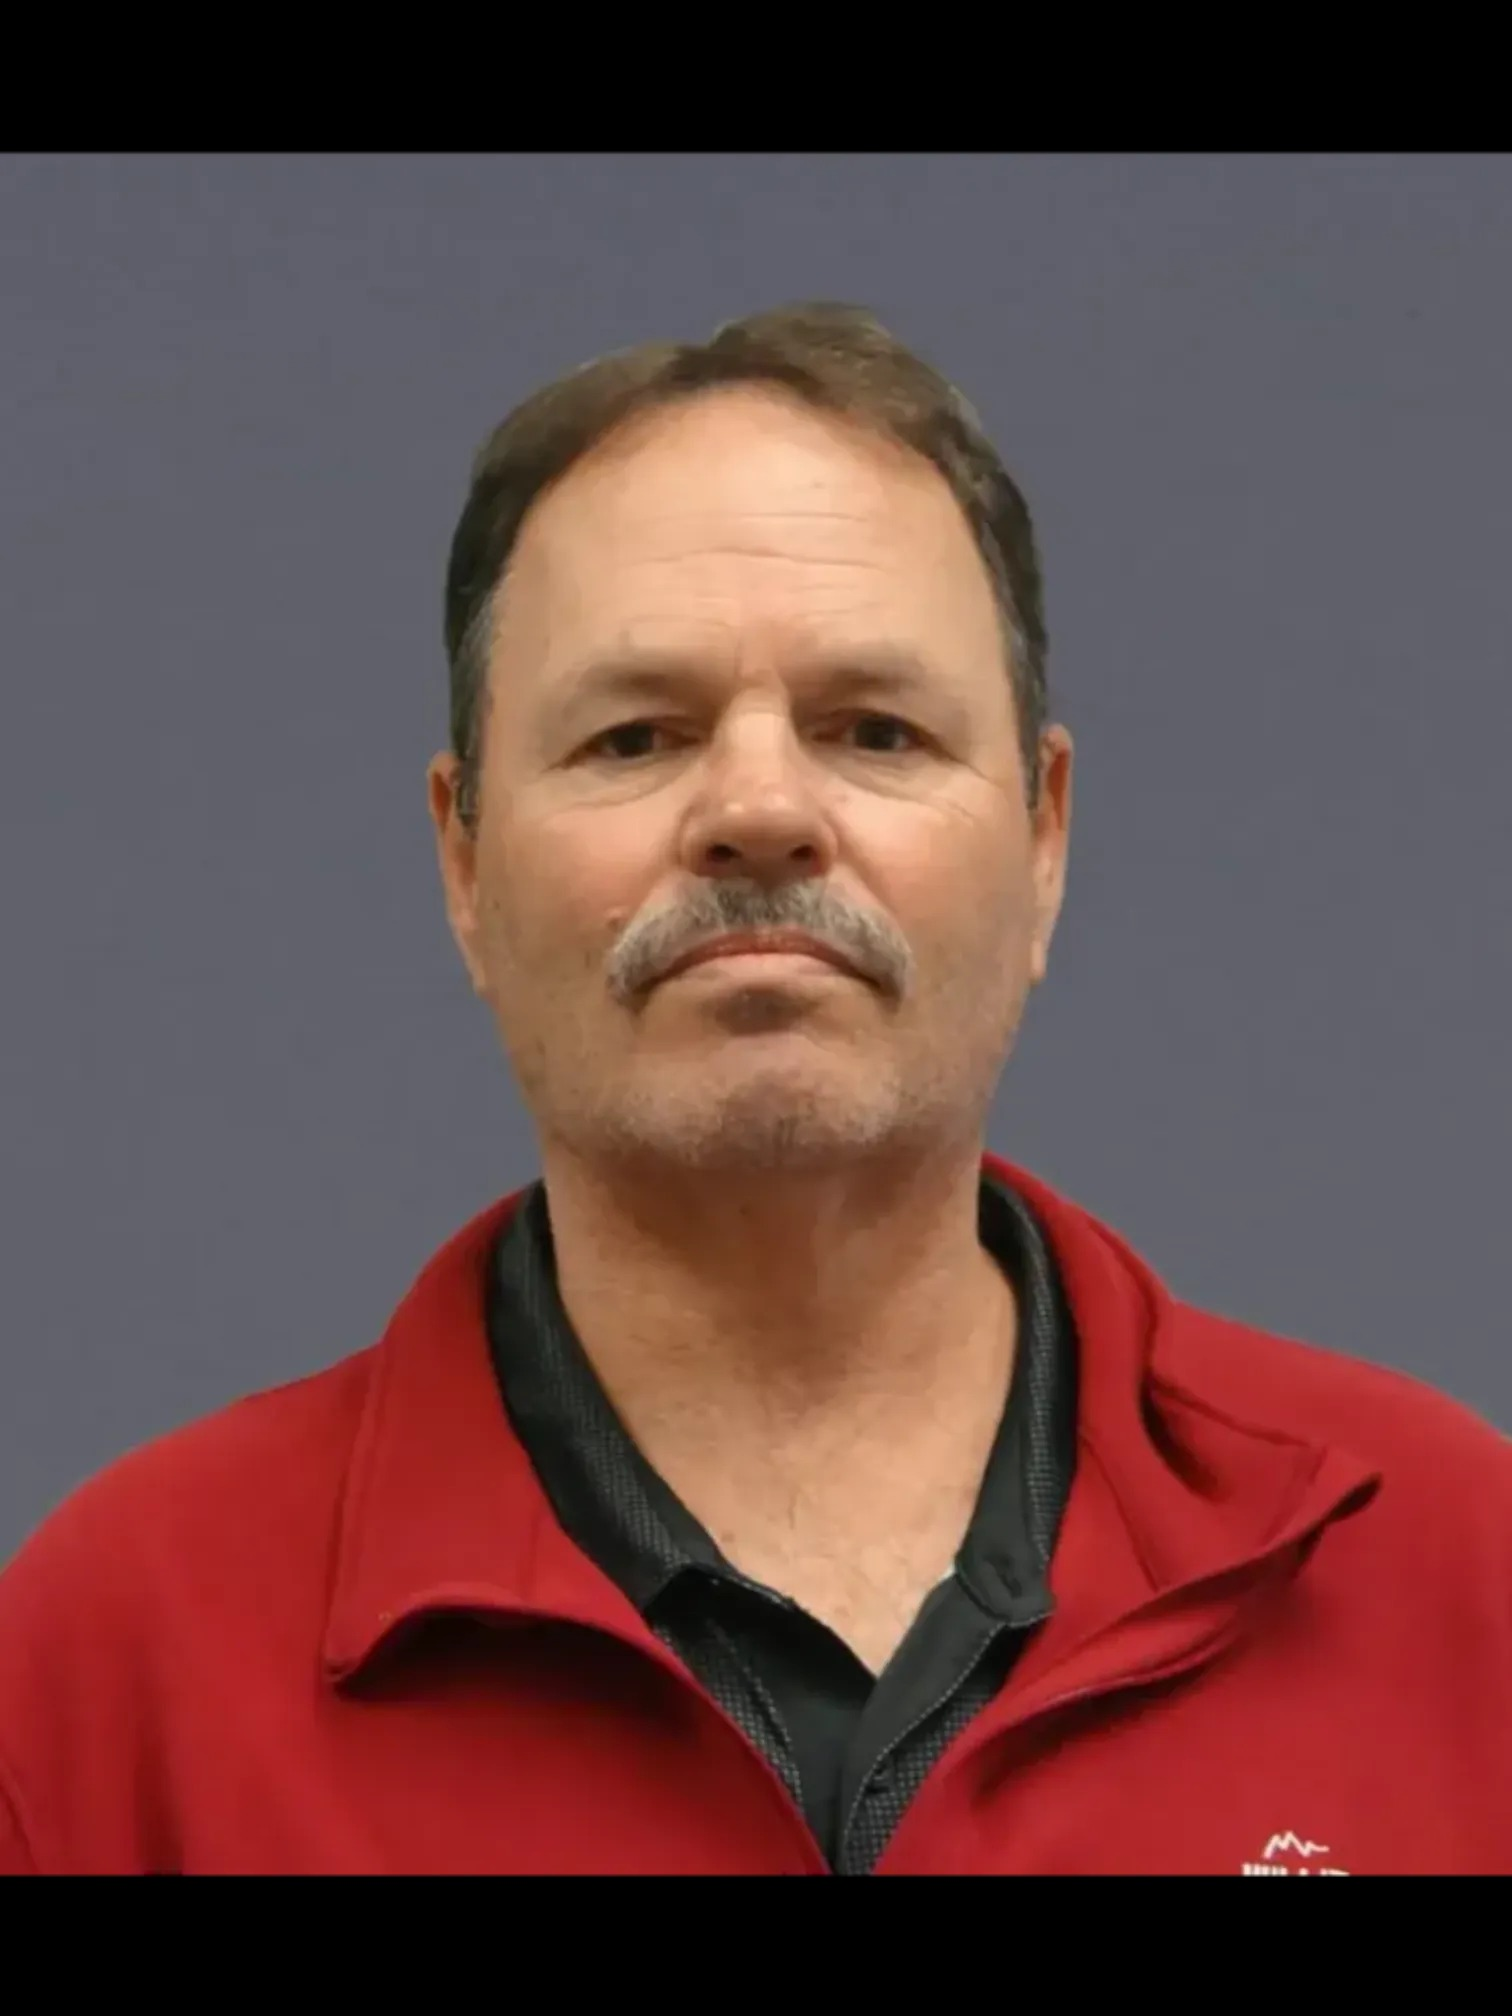
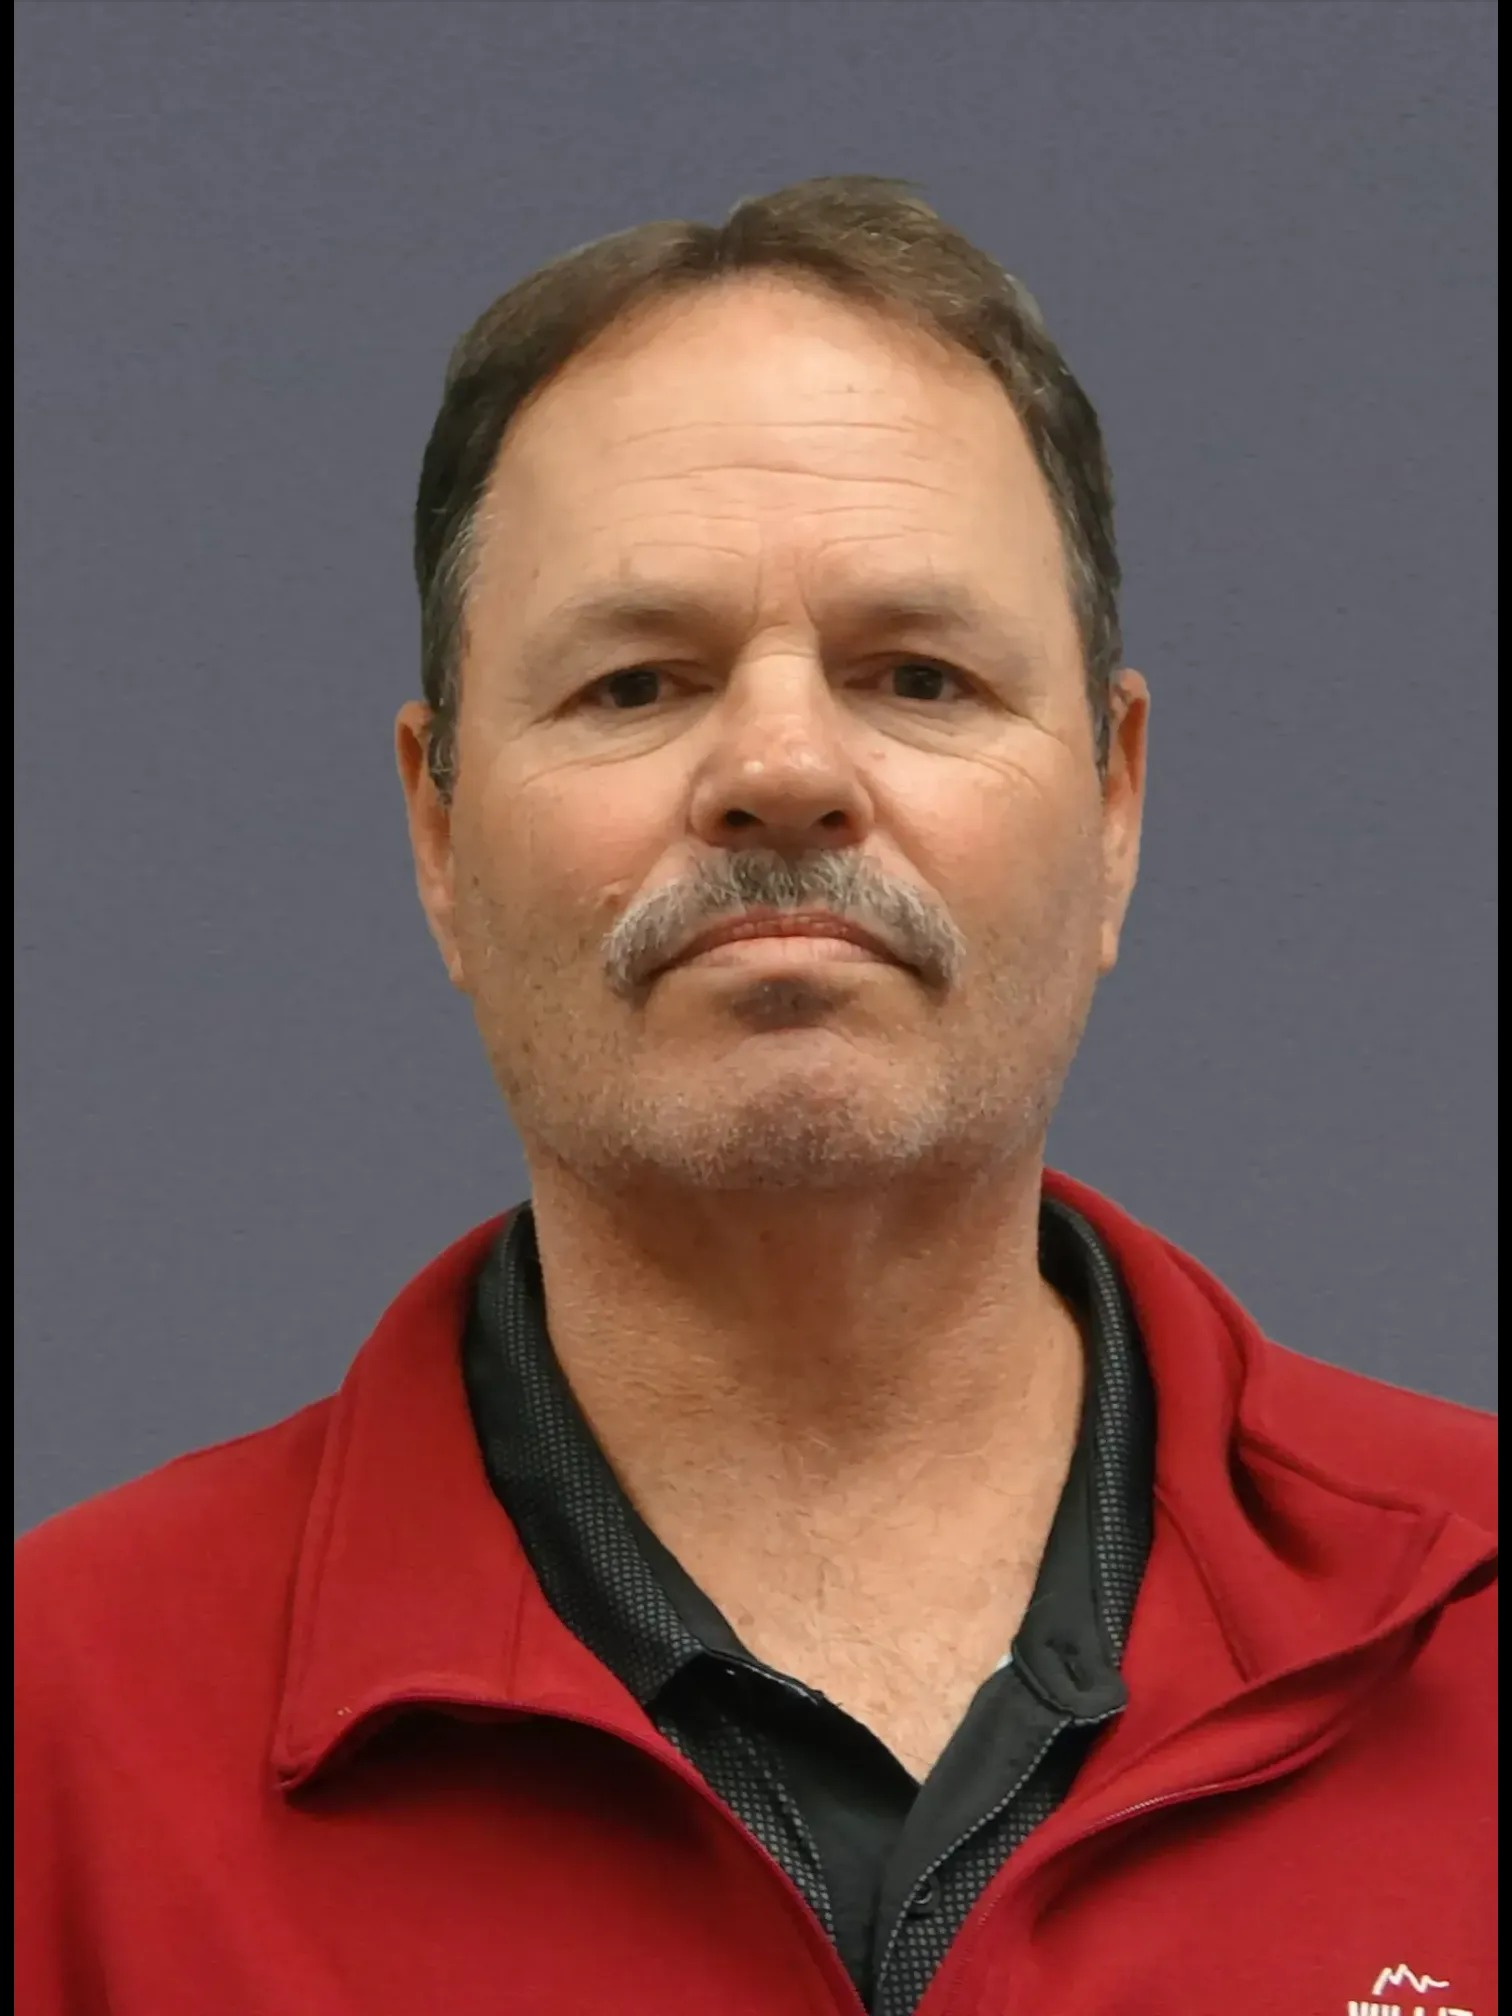
updated Mike English picture

diff --git a/aboutus.html b/aboutus.html
@@ -132,7 +132,7 @@
                   </div>
                   <div class="team-member">
                      <div class="image-container">
-                        <img src="assets/img/team2019/Mike English.jpeg" alt="Person">
+                        <img src="assets/img/team2019/MikeEnglishBackground.jpeg" alt="Person">
                      </div>
                      <div class="member-info">
                         <h3 class="name">Michael English</h3>
